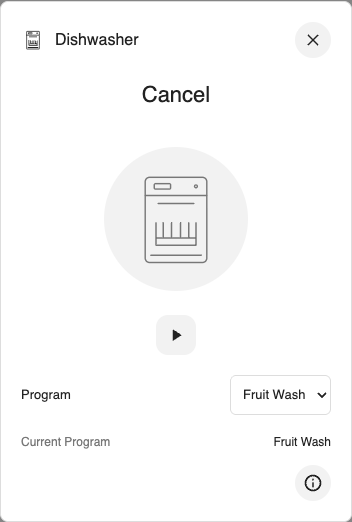
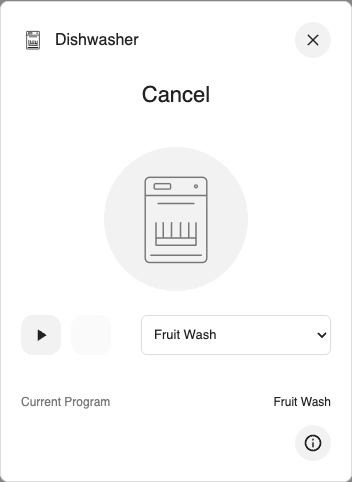
Align dishwasher actions and program selector in one row

diff --git a/src/cards/dishwasher-card.js b/src/cards/dishwasher-card.js
@@ -23,11 +23,14 @@ class DishwasherCard extends CookingCard {
   }
   render() {
     super.render();
+    const style = document.createElement("style");
+    style.textContent = '.controls{justify-content:flex-start;min-width:0}.program-field{display:block;min-width:0;margin-left:auto;flex:0 1 190px}.program-field select{width:100%;max-width:100%;font-size:13px;text-overflow:ellipsis}.program-field>span{position:absolute;width:1px;height:1px;overflow:hidden;clip-path:inset(50%)}';
+    this.shadowRoot.append(style);
     if (this.config.mode_select_entity) {
-      const row = document.createElement("label"); row.className = "field";
+      const row = document.createElement("label"); row.className = "program-field";
       row.innerHTML = '<span>Program</span><select class="program-select" aria-label="Program"></select>';
       row.querySelector("select").onchange = event => { this.selectedProgram = event.target.value; this.update(); };
-      this.shadowRoot.querySelector(".fields").append(row);
+      this.shadowRoot.querySelector(".controls").append(row);
     }
     this.update();
   }
@@ -53,6 +56,10 @@ class DishwasherCard extends CookingCard {
     root.querySelector(".summary").textContent = [status, phase].filter(Boolean).join(" · ");
     root.querySelector(".machine").classList.toggle("spinning", this.status === "running" && ["pre_wash", "wash", "rinse"].includes(this.state("progress_entity")));
     root.querySelector(".controls").hidden = !this.config.mode_select_entity && !this.config.start_entity && !this.config.stop_entity;
+    for (const action of ["start", "stop"]) {
+      const button = root.querySelector(`.${action}`); button.hidden = false; button.disabled = !this.can(action);
+      button.title = action === "stop" && !this.config.stop_entity ? "Stop Not Exposed By Integration" : action === "stop" ? "Stop" : "Start";
+    }
     const facts = root.querySelector(".facts");
     for (const [key, title] of [["mode_entity", "Current Program"], ["progress_entity", "Stage"]]) {
       if (!this.available(key) || (key === "progress_entity" && !this.active)) continue;

diff --git a/README.md b/README.md
@@ -41,7 +41,9 @@ State is required; the remaining bindings are optional. Running stages are
 hidden while off, and the last program is not presented as an active cycle.
 No door state, remaining time or missing controls are fabricated. Optional
 `remaining_entity`, `fault_entity` and `finished_entity` use real entities only.
-The real household dishwasher has no exposed Stop button; it remains hidden.
+Start and Stop remain visible on the left of one control row, with Program on
+the right. The real household dishwasher has no exposed Stop action, so its
+Stop button is disabled and explains that limitation in its tooltip.
 Browser checks use synthetic entities and never start a real wash.
 
 ### Air Fryer And Pressure Cooker
